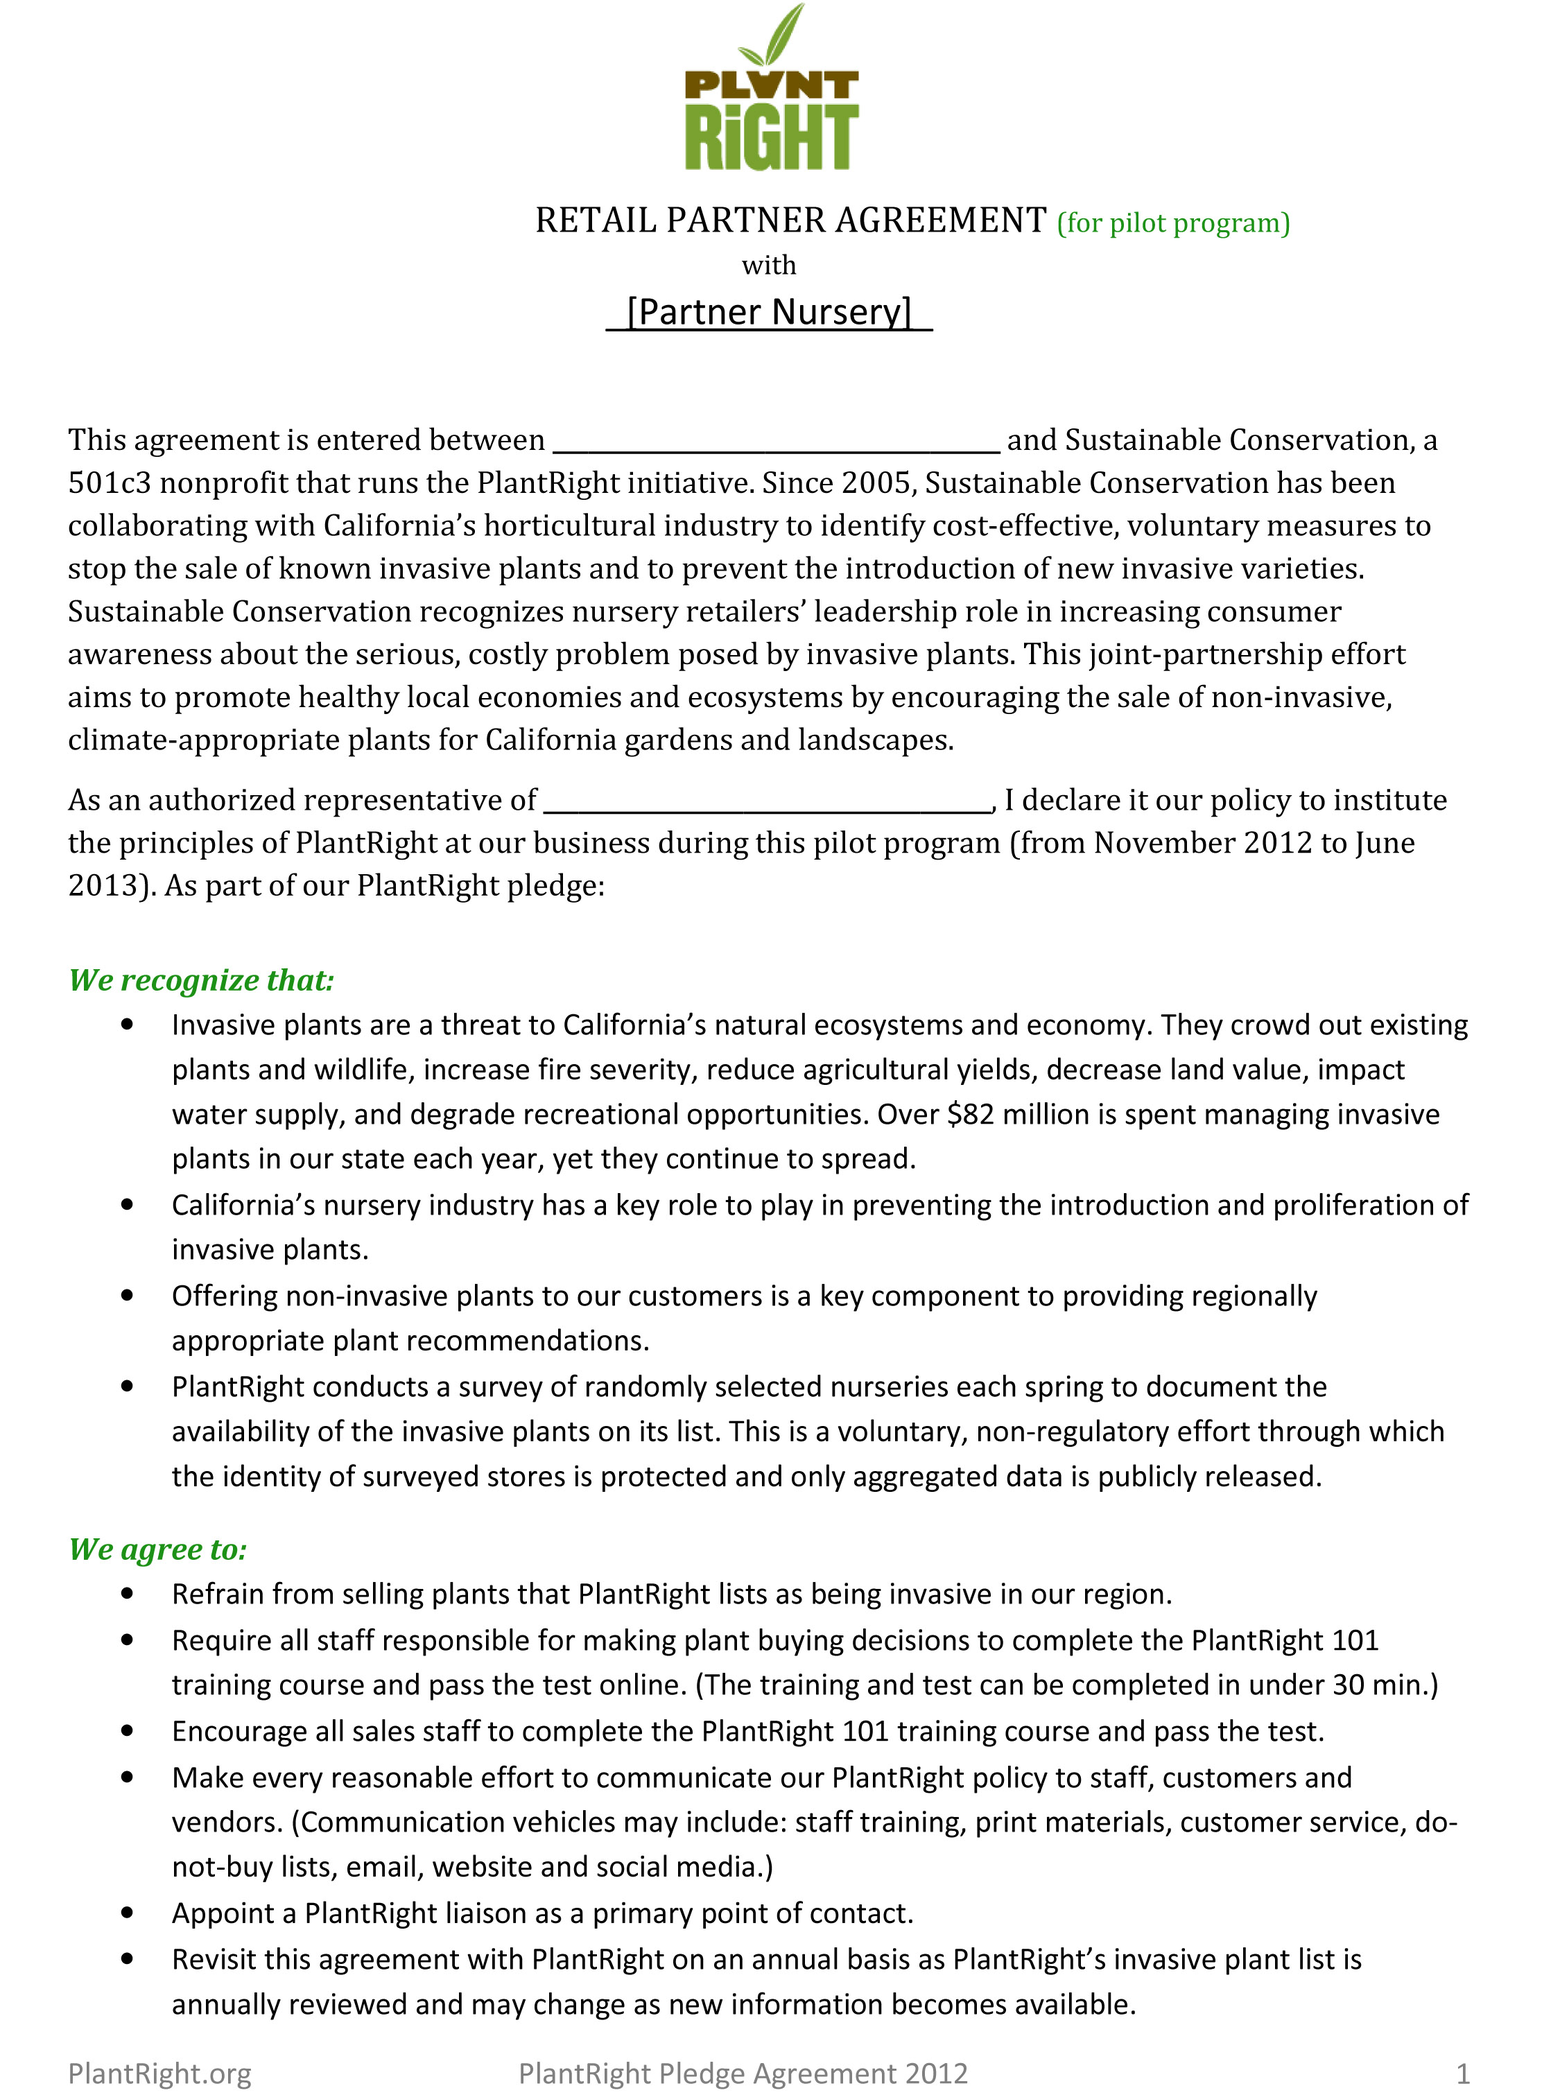
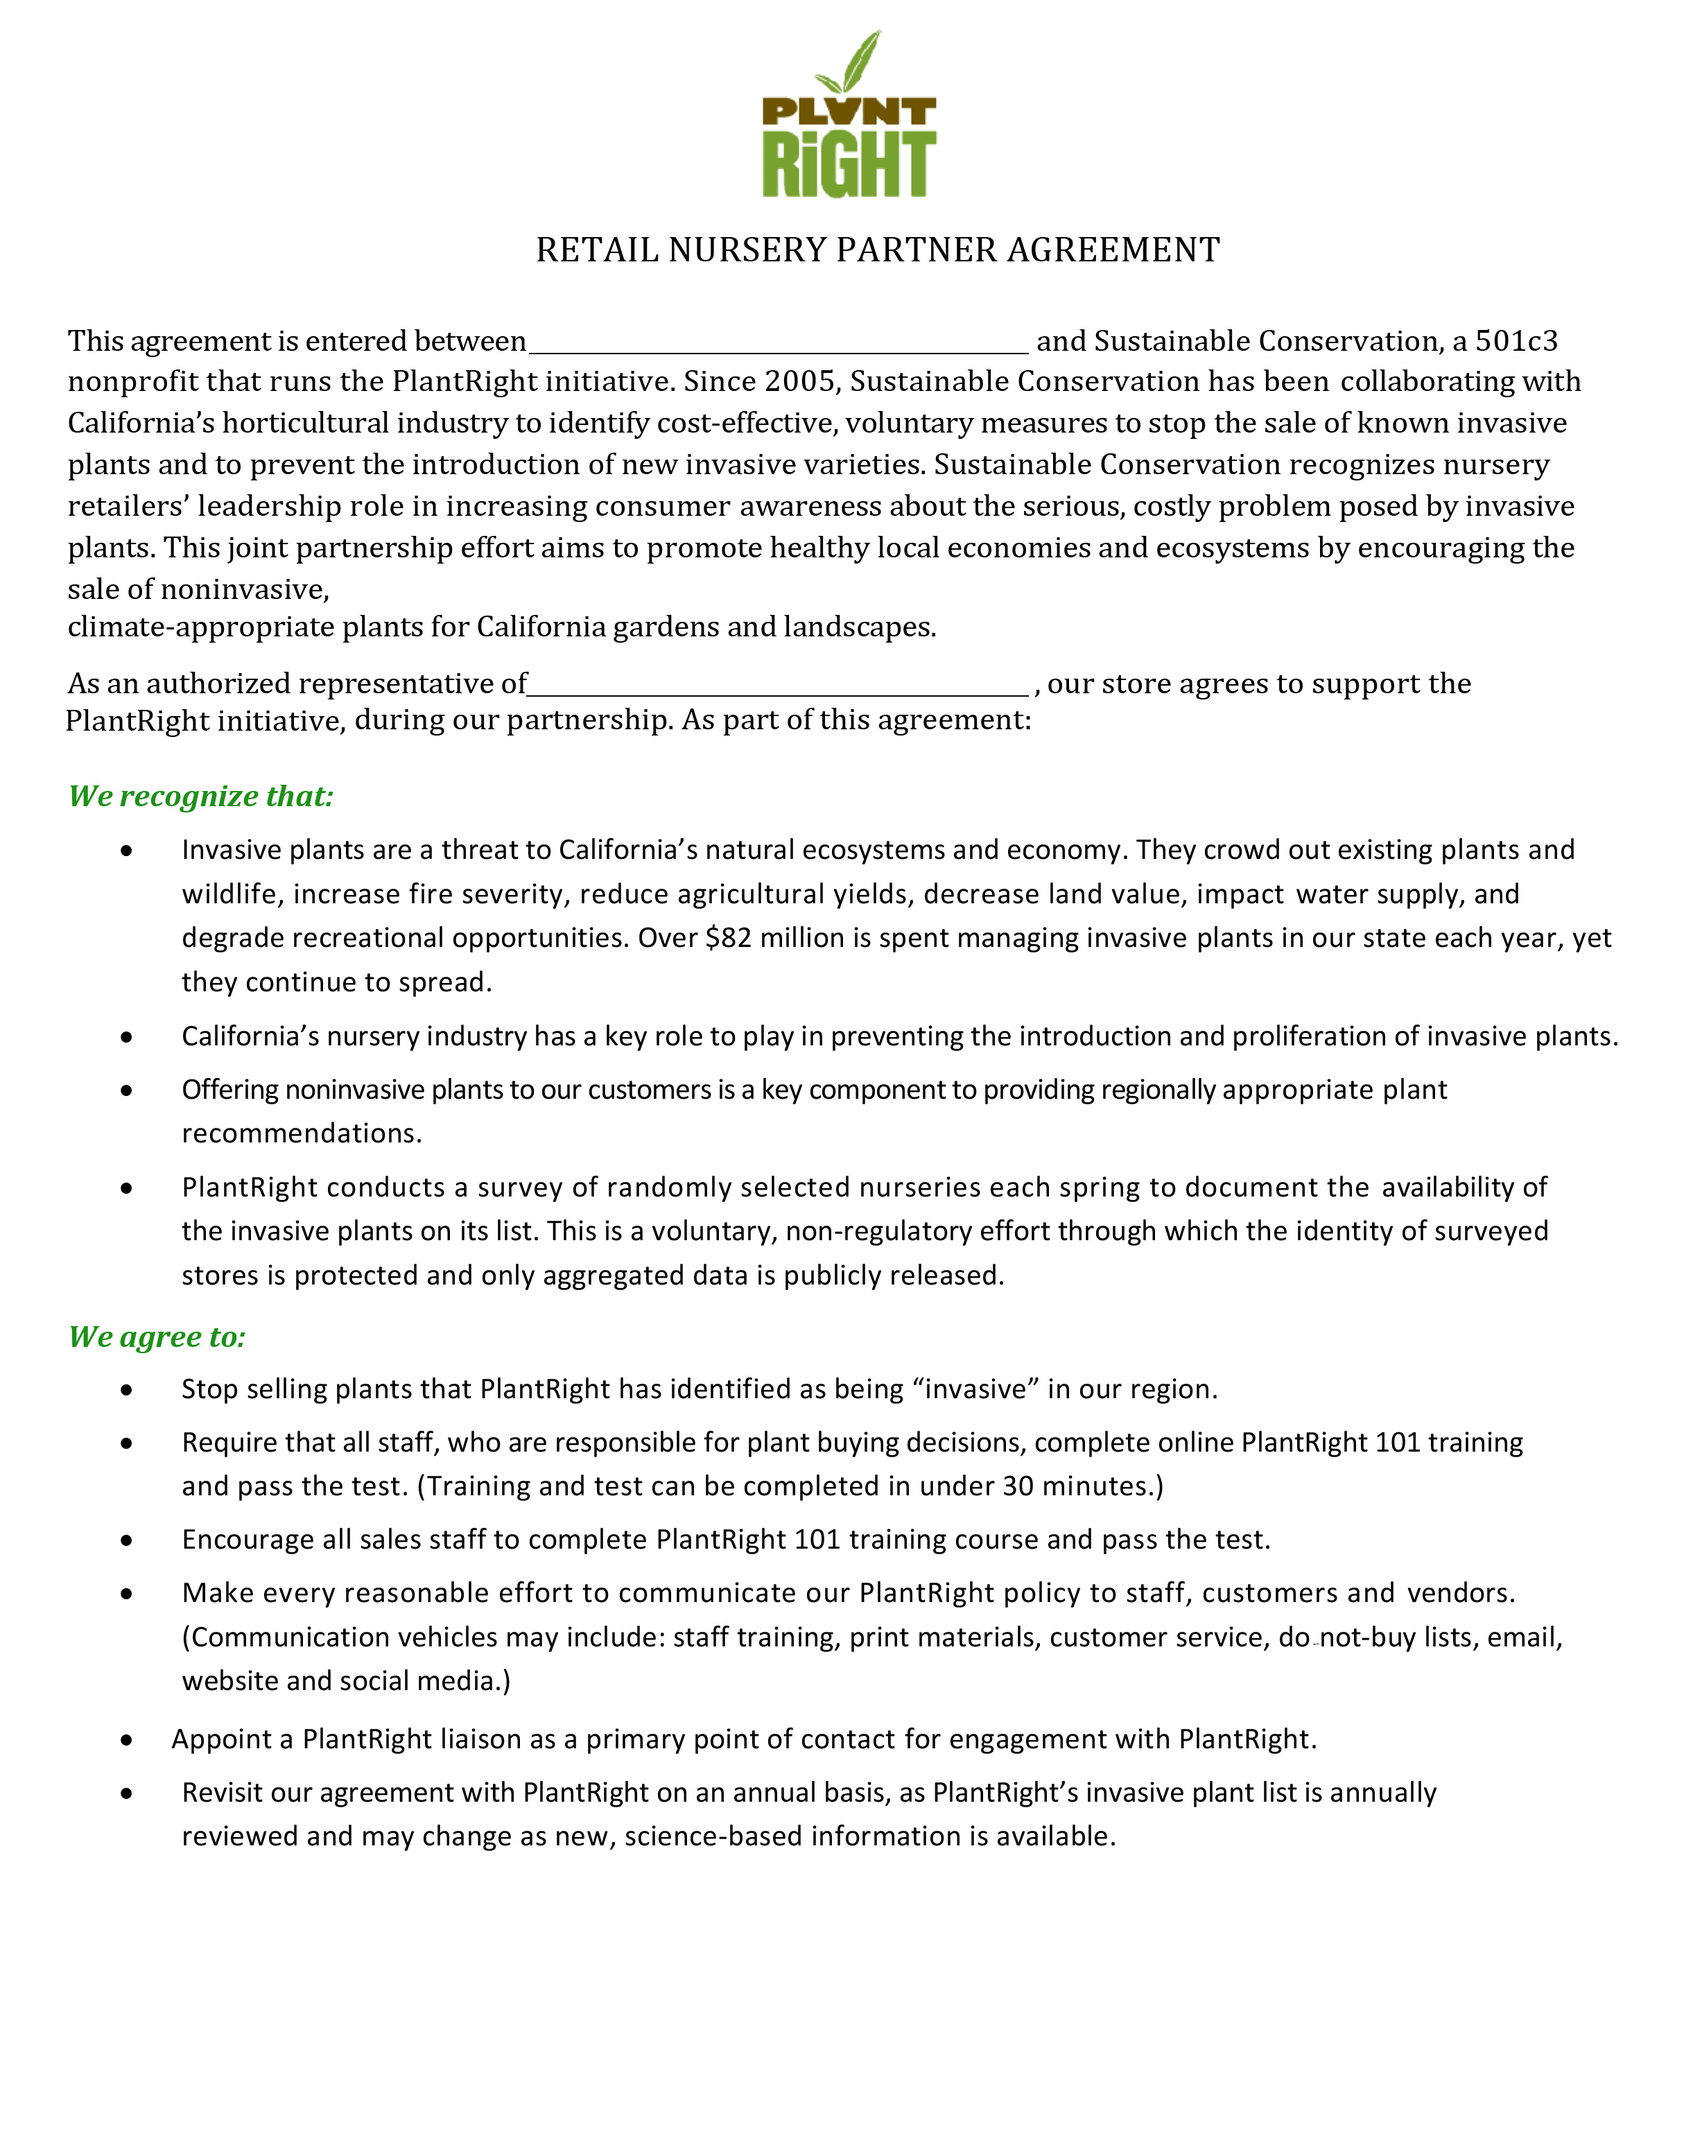
Update agreement pdf

Changed region(s): [[0.0311, 0.0, 0.9644, 0.9954], [0.0622, 0.9643, 0.1244, 0.9954], [0.7778, 0.0933, 0.8089, 0.1244]]

diff --git a/sites/all/modules/custom/pdf_downloads/agreement/agreement-pdf.css b/sites/all/modules/custom/pdf_downloads/agreement/agreement-pdf.css
@@ -21,40 +21,46 @@ img {
   left: 0;
 }
 #agreement-text-1 {
-  top: 206px;
+  top: 155px;
+  left: 258px;
 }
 #agreement-text-2 {
-  top: 385px;
+  top: 322px;
+  left: 258px;
 }
 #agreement-text-1, #agreement-text-2 {
-  left: 282px;
-  width: 233px;
+  width: 238px;
   text-align: center;
+  font-size: .8em;
+  font-weight: bold;
 }
 #agreement-text-3 {
-  top: 476px;
+  top: 360px;
   left: 0;
+  border: 1px solid black;
+  font-size: 1.2em;
 }
 .subtext {
   position:absolute;
 }
 #agreement-text-3 .name {
-  left: 130px;
+  top: 73px;
+  left: 140px;
   width: 520px;
 }
 #agreement-text-3 .address {
-  left: 83px;
-  top: 43px;
+  left: 93px;
+  top: 116px;
   width: 640px;
 }
 #agreement-text-3 .city {
-  left: 57px;
-  top: 86px;
+  left: 77px;
+  top: 158px;
   width: 432px;
 }
 #agreement-text-3 .zip {
-  left: 556px;
-  top: 86px;
+  left: 451px;
+  top: 158px;
   width: 164px;
 }
 #agreement-text-3 .phone {

diff --git a/sites/all/modules/custom/pdf_downloads/agreement.tpl.php b/sites/all/modules/custom/pdf_downloads/agreement.tpl.php
@@ -27,8 +27,8 @@
       <div class="address subtext"><?php print $address; ?></div>
       <div class="city subtext"><?php print $city; ?></div>
       <div class="zip subtext"><?php print $zip; ?></div>
-      <div class="phone subtext"><?php print $phone; ?></div>
-      <div class="email subtext"><?php print $email; ?></div>
+      <!-- <div class="phone subtext"><?php print $phone; ?></div> -->
+      <!-- <div class="email subtext"><?php print $email; ?></div> -->
     </div>
     <div id="agreement-image-2"><img src="<?php print $directory . '/' . $path; ?>/agreement-pdf-2.jpg" width="801px" height="1034px" /></div>
   </div>
